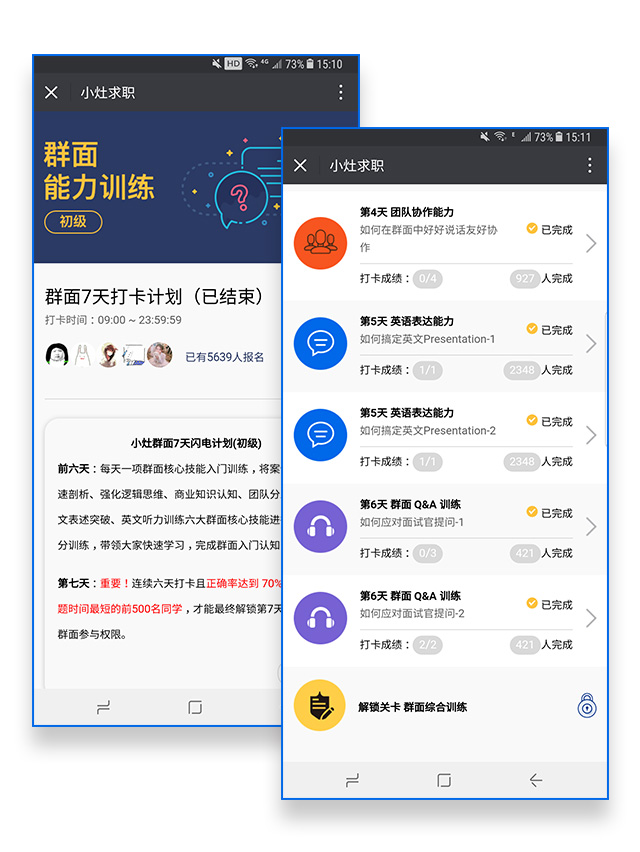
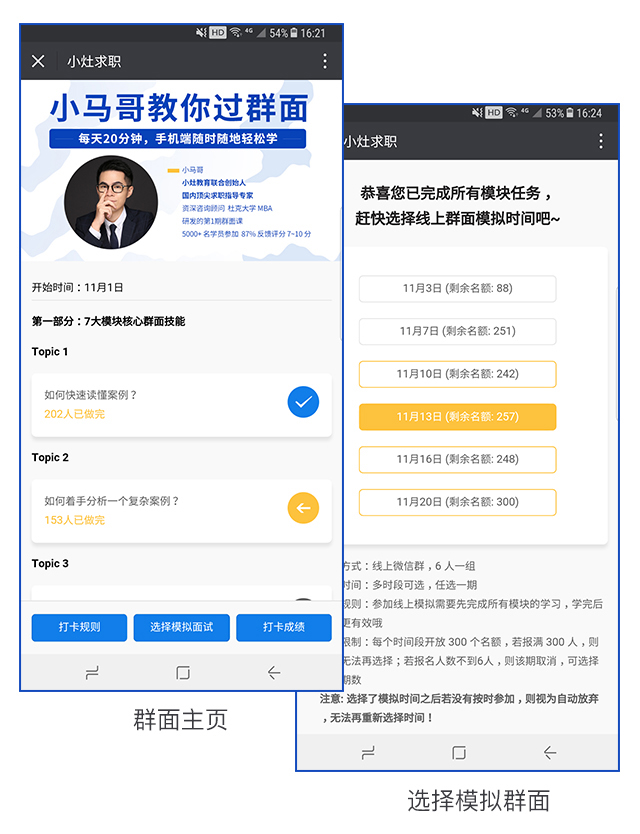
update: 替换图片

diff --git a/pages/interviewvip/introPage.js b/pages/interviewvip/introPage.js
@@ -196,7 +196,7 @@ export default class extends React.Component {
               <li>参加线上模拟需要先完成所有模块的学习，学完后模拟更有效哦</li>
               <li>群面时间：<span className='red'>多时段选一</span>(每个时间段开放 300 个名额，为保证群面效果，完成课程学习才可报名群面啦！请务必确认参加哦）</li>
               <div className='introImg'>
-                <img src='/static/img/interviewvip/introPage/timeChoose.png'/>
+                <img src='/static/img/interviewvip/introPage/timeChoose.jpg' style={{width: '100%'}} />
               </div>
             </ul>
           </section>
@@ -466,7 +466,7 @@ export default class extends React.Component {
       )
     })
     return (<div className='page'>
-      <h1 className='title'>第一期群面打卡回顾</h1>
+      <h1 className='title'>《小马哥教你过群面》精华页面</h1>
       {result}
       <style jsx>
         {`
